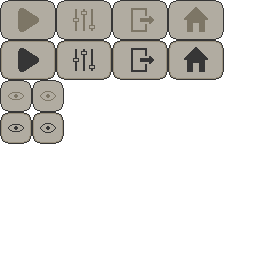
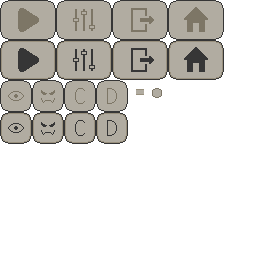
improved settings menu made size_multiplier relative to screen dimensions

diff --git a/menus.py b/menus.py
@@ -1,21 +1,24 @@
 import pygame
 import numpy as np
 import spriteSheet
-from pygame.locals import (K_a, K_d, K_ESCAPE, K_SPACE, KEYDOWN, QUIT)
+from pygame.locals import (K_a, K_d, K_s, K_w, K_ESCAPE, K_SPACE, KEYDOWN, QUIT)
+
+clock = pygame.time.Clock()
 
 
-class Menu:
+class MainMenu:
     """manages menu_running buttons and their states"""
-    def __init__(self, screen, sizer: int):
+    def __init__(self, screen: pygame.Surface, sizer: int):
         self.active = 0
         self.states = {0: "play", 1: "settings", 2: "exit"}
         window_stats = (screen.get_width(), screen.get_height(), sizer)
-        play_button = MenuButton(0, 1, window_stats)
-        setting_button = MenuButton(1, 0, window_stats)
-        exit_button = MenuButton(2, 0, window_stats)
+        self.ss = spriteSheet.SpriteSheet("resources/MenuButtons.png")
+        play_button = MainButton(0, 1, window_stats, self.ss)
+        setting_button = MainButton(1, 0, window_stats, self.ss)
+        exit_button = MainButton(2, 0, window_stats, self.ss)
         self.buttons = (play_button, setting_button, exit_button)
         self.screen = screen
-        self.settings = SettingsMenu(screen, window_stats)
+        self.settings = SettingsMenu(screen, sizer, self.ss)
 
     def update(self, events):
         """update Buttons"""
@@ -30,7 +33,7 @@ class Menu:
             button.update(self.active)
 
     def loop(self):
-        """runs the menu"""
+        """runs the main_menu"""
         menu_color = (0xeb, 0xd2, 0xbe)
         while True:
             self.screen.fill(menu_color)
@@ -55,17 +58,18 @@ class Menu:
             for button in self.buttons:
                 self.screen.blit(button.image, button.rect)
             pygame.display.flip()
+            clock.tick(120)
 
 
-class MenuButton(pygame.sprite.Sprite):
+class MainButton(pygame.sprite.Sprite):
     """Sprite and state of a menu_running button"""
 
-    def __init__(self, button_number, highlight, window_stats):
-        super(MenuButton, self).__init__()
+    def __init__(self, button_number, highlight, window_stats, ss: spriteSheet.SpriteSheet):
+        super(MainButton, self).__init__()
         screenw, screenh, self.size_multiplier = window_stats
         self.b_number = button_number
         self.highlight = highlight
-        self.ss = spriteSheet.SpriteSheet("resources/MenuButtons.png")
+        self.ss = ss
         self.image = pygame.transform.scale(self.ss.image_at((button_number * 56, highlight * 40, 56, 40), -1),
                                             (56 * self.size_multiplier, 40 * self.size_multiplier))
         self.rect = self.image.get_rect(
@@ -82,64 +86,100 @@ class MenuButton(pygame.sprite.Sprite):
 
 
 class SettingsMenu:
-    def __init__(self, screen: pygame.display, window_stats):
+    def __init__(self, screen: pygame.Surface, sizer, ss: spriteSheet.SpriteSheet):
+        # variables
         self.screen = screen
-        self.visionB = SettingsButton(0, 1, window_stats)
-        self.buttons = [self.visionB]
+        self.screenw = screen.get_width()
+        self.screenh = screen.get_height()
+        self.sizer = sizer
+        # init buttons
+        self.visionB = SettingButton(0, 1, self.screenw, self.screenh, self.sizer, ss)
+        self.enemyB = SettingButton(1, 0, self.screenw, self.screenh, self.sizer, ss)
+        self.cB = SettingButton(2, 0, self.screenw, self.screenh, self.sizer, ss)
+        self.dB = SettingButton(3, 0, self.screenw, self.screenh, self.sizer, ss)
+        self.buttons = [self.visionB, self.enemyB, self.cB, self.dB]
         self.active = self.visionB
+        # settings bar
+        self.bg = self.screen.copy()
+        self.bg.fill((0xeb, 0xd2, 0xbe))
+        bar_dim = (int(self.screenw/4), sizer*8)
+        bar = pygame.transform.scale(ss.image_at((136, 88, 8, 8), (255, 255, 255)), bar_dim)
+        spot = pygame.transform.scale(ss.image_at((152, 88, 10, 10), -1), (sizer*10, sizer*10))
+        for i in range(4):
+            bar_rect = bar.get_rect(center=(self.screenw/2, (3+i)/8*self.screenh))
+            self.bg.blit(bar, bar_rect)
+            for k in range(3):
+                spotr = spot.get_rect(center=((3+k)/8 * self.screenw, (3+i)/8*self.screenh))
+                self.bg.blit(spot, spotr)
 
     def loop(self):
-        """runs the menu"""
-        menu_color = (0xeb, 0xd2, 0xbe)
+        """runs the main_menu"""
         while True:
-            self.screen.fill(menu_color)
-
             events = pygame.event.get()
             for event in events:
                 if event.type == KEYDOWN:
                     if event.key == K_ESCAPE:
-                        return "menu"
+                        return "main_menu"
                     if event.key == K_SPACE:
                         self.active.update(1)
                     if event.key == K_d:
                         self.active.update(1)
                     if event.key == K_a:
                         self.active.update(-1)
+                    if event.key == K_s:
+                        self.active.toggle()
+                        self.active = self.buttons[(self.buttons.index(self.active) + 1) % 4]
+                        self.active.toggle()
+                    if event.key == K_w:
+                        self.active.toggle()
+                        self.active = self.buttons[(self.buttons.index(self.active) - 1) % 4]
+                        self.active.toggle()
                     elif event.type == QUIT:
                         return
                 if event.type == QUIT:
                     return "quit"
 
+            self.screen.blit(self.bg, self.bg.get_rect())
             for button in self.buttons:
                 self.screen.blit(button.image, button.rect)
             pygame.display.flip()
+            clock.tick(120)
 
 
-class SettingsButton(pygame.sprite.Sprite):
+class SettingButton(pygame.sprite.Sprite):
     """Sprite and state of a Settings Button"""
 
-    def __init__(self, button_number, highlight, window_stats):
-        super(SettingsButton, self).__init__()
-        screenw, screenh, self.size_multiplier = window_stats
-        self.size_multiplied = (32 * self.size_multiplier, 32 * self.size_multiplier)
+    def __init__(self, button_number, highlight, screenw, screenh, sizer, ss: spriteSheet.SpriteSheet):
+        super(SettingButton, self).__init__()
+        self.screenw = screenw
+        self.screenh = screenh
+        self.sizer = sizer
+        self.ss = ss
+        self.size_multiplied = (32 * self.sizer, 32 * self.sizer)
         self.b_number = button_number
         self.highlight = highlight
         self.setting = 0
-        self.ss = spriteSheet.SpriteSheet("resources/MenuButtons.png")
-        # TODO get image depending on button number
-        self.image = pygame.transform.scale(self.ss.image_at((self.setting * 32, 80 + highlight * 32, 32, 32), -1),
+        self.image = pygame.transform.scale(self.ss.image_at((self.b_number*32, 80+highlight*32, 32, 32), -1),
                                             self.size_multiplied)
-        self.rect = self.image.get_rect(center=(screenw*3/8 + button_number*screenw/8, screenh*3/5))
+        self.rect = self.image.get_rect(center=((3 + self.setting)/8*screenw, (3 + button_number)/8*screenh))
 
     def update(self, increment):
-        self.setting = (self.setting + increment) % 2
-        self.image = pygame.transform.scale(self.ss.image_at((self.setting * 32, 80 + self.highlight * 32, 32, 32), -1),
+        self.setting = (self.setting + increment)
+        if self.setting < 0:
+            self.setting = 0
+        elif self.setting > 2:
+            self.setting = 2
+        self.rect = self.image.get_rect(center=((3 + self.setting)/8*self.screenw, (3 + self.b_number)/8*self.screenh))
+
+    def toggle(self):
+        self.highlight = (self.highlight + 1) % 2
+        self.image = pygame.transform.scale(self.ss.image_at((self.b_number*32, 80+self.highlight*32, 32, 32), -1),
                                             self.size_multiplied)
 
 
 class DeathMenu:
-    """menu shown when player dies"""
-    def __init__(self, window_stats: (pygame.display, int)):
+    """main_menu shown when player dies"""
+    def __init__(self, window_stats: (pygame.Surface, int)):
         self.screen, self.sizer = window_stats
         self.test, x = window_stats
         self.playB = DeathButton(0, True, window_stats)
@@ -147,7 +187,7 @@ class DeathMenu:
 
     def get_background(self):
         """returns old game state with opaque layers on top as a Surface"""
-        # copy of game_screen for menu background
+        # copy of game_screen for main_menu background
         old_game = self.screen.copy()
         center = old_game.get_rect().center
         width, height = old_game.get_size()
@@ -172,7 +212,7 @@ class DeathMenu:
             for event in events:
                 if event.type == KEYDOWN:
                     if event.key == K_ESCAPE:
-                        return "menu"
+                        return "main_menu"
                     if event.key == K_a or event.key == K_d:
                         self.playB.update()
                         self.homeB.update()
@@ -180,7 +220,7 @@ class DeathMenu:
                         if self.playB.highlight:
                             return "game"
                         else:
-                            return "menu"
+                            return "main_menu"
                 # quitting the program
                 elif event.type == QUIT:
                     return "quit"
@@ -192,10 +232,11 @@ class DeathMenu:
             self.screen.blit(self.homeB.image, self.homeB.rect)
 
             pygame.display.flip()
+            clock.tick(120)
 
 
 class DeathButton(pygame.sprite.Sprite):
-    """Sprite and state of death menu button"""
+    """Sprite and state of death main_menu button"""
     def __init__(self, button_number, highlight, window_stats):
         super(DeathButton, self).__init__()
         self.bn = button_number

diff --git a/main.py b/main.py
@@ -5,7 +5,7 @@ import pygame
 
 from Player import Player
 from colorbox import ColorBox
-from menuScreen import Menu, DeathMenu
+from menus import MainMenu, DeathMenu
 import enemys
 from pygame.locals import (
     RLEACCEL,
@@ -15,8 +15,6 @@ from pygame.locals import (
     MOUSEBUTTONDOWN
 )
 
-# vars
-size_multiplier = 3
 # SCREEN_WIDTH = 600
 # SCREEN_HEIGHT = 600
 better_black = (39, 41, 50)
@@ -64,6 +62,9 @@ SCREEN_HEIGHT = window_info.current_h
 # screen = pygame.display.set_mode([SCREEN_WIDTH, SCREEN_HEIGHT])
 screen = pygame.display.set_mode((0, 0))
 
+# calculate relative to screenw
+size_multiplier = int((screen.get_width() + screen.get_height()) / 1000)
+
 # Create custom event for adding new enemy and cloud
 ADDENEMY = pygame.USEREVENT + 1
 # pygame.time.set_timer(ADDENEMY, 250)
@@ -96,14 +97,14 @@ clock = pygame.time.Clock()
 running = True
 game_running = False
 menu_running = True
-menu = Menu(screen, size_multiplier)
-program_state = "menu"
+main_menu = MainMenu(screen, size_multiplier)
+program_state = "main_menu"
 
 # Window loop
 while program_state != "quit":
-    # run menu loop
-    if program_state == "menu":
-        program_state = menu.loop()
+    # run main_menu loop
+    if program_state == "main_menu":
+        program_state = main_menu.loop()
 
     # run game loop
     if program_state == "game":
@@ -117,7 +118,7 @@ while program_state != "quit":
                 # User press Key?
                 if event.type == KEYDOWN:
                     if event.key == K_ESCAPE:
-                        program_state = "menu"
+                        program_state = "main_menu"
                 # User press Close Window?
                 elif event.type == QUIT:
                     program_state = "quit"
@@ -168,7 +169,7 @@ while program_state != "quit":
                 randomBox.move()
 
             #     prog_state["game"] = False
-            #     prog_state["menu"] = True
+            #     prog_state["main_menu"] = True
 
             if player.alive < 0:
                 pass
@@ -176,7 +177,7 @@ while program_state != "quit":
             # Flip the display
             pygame.display.flip()
 
-            # Ensure program maintains 30 FPS
+            # Ensure program maintains 120 FPS
             clock.tick(120)
 
 # Done! Time to quit.
